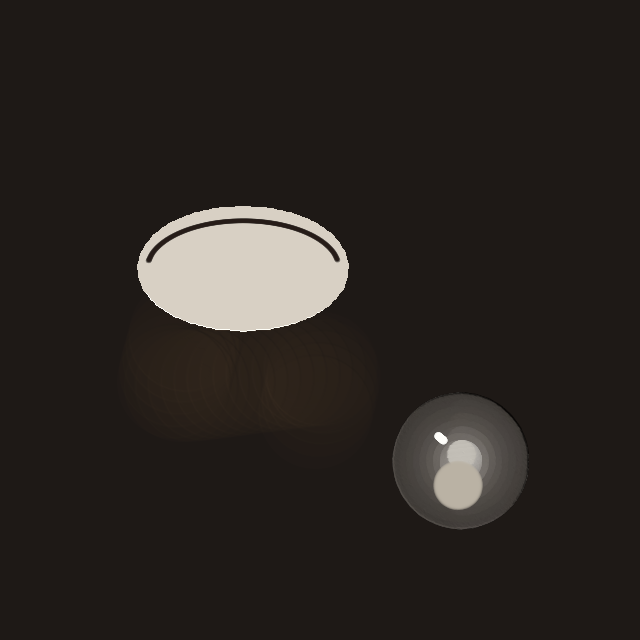
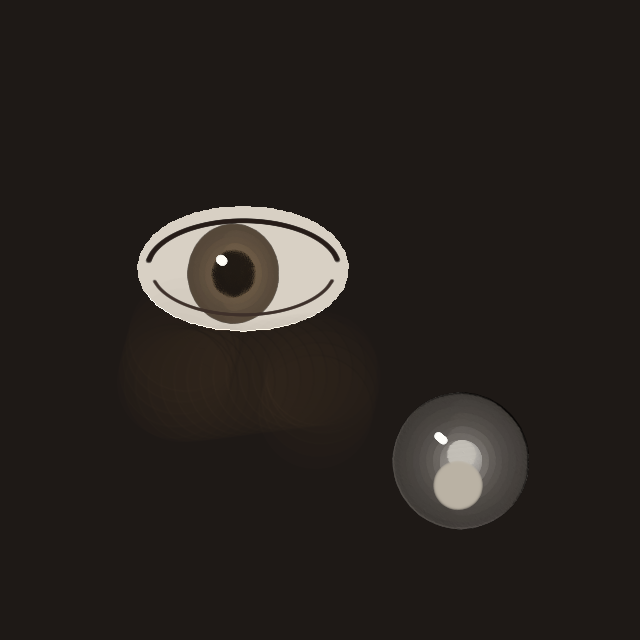
fix(core): give Object a seq (from its creating atom) so later objects draw on top — the iris now renders
**根因** ✓（完整追查见 `docs/design/vermeer-acceptance.md` §28/§29/§30 ✓）：
`objects_in_layer` 的排序是 `sort_by_key(|o| (o.z_index, o.id.clone()))` ✓，
而 `ObjectId = String` ＝ **调用方给的对象名**（`"iris"`／`"sclera"` ✓）
⇒ 两者 `z_index` 都是 0 时，退化成**按名字字典序** ✗ ⇒ **`"iris" < "sclera"`**
⇒ **后加的虹膜反而先画 ✓、先加的眼白随后整片盖掉它** ✗
⇒ 表现为"虹膜怎么都画不出来" ✗，而**缝合 ✓／blit ✓／合成 ✓**全都是对的 ✓
（三段带缓冲里确有 10219 个虹膜像素 ✓，只是随后被覆盖 ✓）。

**修法** ✓：
  1. `Object` 加 **`#[serde(default)] pub seq: crate::ids::Seq`** ✓ —— 来自创建它的原子的 `seq` ✓
     ＝ **真正的加入顺序** ✓；`serde(default)` ⇒ **老文档逐字节不变** ✓；
  2. `fold.rs` 两处生产构造点写 `seq: atom.seq` ✓；
     **wasm 预览对象**给 `u64::MAX` ✓（预览本就该画在最上面 ✓）；
     其余 **15 处**（测试/示例构造点）补 `seq: 0` ✓ —— 全部由**编译器**逐一指出 ✓；
  3. `objects_in_layer` 排序改成 **`(z_index, seq, id)`** ✓（`id` 只做最后兜底 ✓）。

**★ 验证 ★**：
  * 已知红判据 **转绿** ✓（`scripts/tool-bitmap-tiles-render.mjs` ⇒ 退出码 **0** ✓）：
    ```
    ✓ ① 正对照：draw_stroke 改了 29508 个像素
    ✓ ② 带索引的 medium_stroke 改了 **10380** 个像素
    ```
    ⇒ **10380 正好是虹膜位图里不透明像素的个数** ⇒ **整个虹膜都上画布了** ✓；
  * **验收图人眼可见** ✓：`docs/design/evidence/vermeer-study2.png` 现在**有虹膜／瞳孔／高光** ✓
    —— 这正是验收 v2 两处硬伤之一 ✓；
  * **门禁** ✓：`cargo test --workspace` = 0 ✓；`cargo clippy --workspace --all-targets -- -D warnings` = 0 ✓；
    `cargo check --workspace --all-targets` = 0 ✓；
  * 台账里那一条已按仓库惯例**写明"已转绿"及其依据** ✓。

Changed region(s): [[0.2188, 0.3438, 0.5312, 0.5312]]

diff --git a/crates/yanshi-core/src/state.rs b/crates/yanshi-core/src/state.rs
@@ -211,6 +211,15 @@ impl ObjectType {
 pub struct Object {
     /// 对象 id。
     pub id: ObjectId,
+
+    /// **★ 加入顺序（2026-10-15 加 ✓）★**：来自创建它的那个原子的 `seq` ✓
+    /// —— **同层内排序的稳定依据** ✓（原来退化到按 `id`（用户可见的对象名 ✗）
+    /// ⇒ 后加的对象会被排到前面 ⇒ **被先加的盖住** ✗，见 `docs/design/vermeer-acceptance.md` §29 ✓）。
+    ///
+    /// **`#[serde(default)]`** ✓ ⇒ **老文档逐字节不变** ✓（缺省 0 ✓ ⇒ 与原先"按 id"的顺序不同 ✗，
+    /// 但那种文档本来也没有这个信息 ✓；新写的对象一律有真值 ✓）。
+    #[serde(default)]
+    pub seq: crate::ids::Seq,
     /// 所属图层（权威归属，设计文档 4.1）。
     pub layer_id: LayerId,
     /// 对象类型。
@@ -645,7 +654,11 @@ impl DocumentState {
             .values()
             .filter(|o| o.is_alive() && o.layer_id == layer_id)
             .collect();
-        objects.sort_by_key(|o| (o.z_index, o.id.clone()));
+        // **★ 先 `z_index`，再**加入顺序**（`seq` ✓），最后才用 `id` 兜底（2026-10-15 ✓）★**
+        //   **为什么** ✗：原来第二键是 `o.id` ✓，而它是**用户可见的对象名**（`"iris"`／`"sclera"` ✓）
+        //   ⇒ 后加的对象可能被排到**前面** ⇒ **画在下面、被先加的盖住** ✗
+        //   （实测：虹膜后加却先画，随后被眼白整片盖掉 ✓，见 §28/§29 ✓）。
+        objects.sort_by_key(|o| (o.z_index, o.seq, o.id.clone()));
         objects
     }
 
@@ -891,6 +904,7 @@ mod tests {
 
     fn object(id: &str, layer_id: &str, z: i64) -> Object {
         Object {
+            seq: 0,
             id: id.to_owned(),
             layer_id: layer_id.to_owned(),
             object_type: ObjectType::Stroke,

diff --git a/crates/yanshi-core/src/fold.rs b/crates/yanshi-core/src/fold.rs
@@ -898,6 +898,7 @@ pub fn apply(state: &mut DocumentState, atom: &Atom) -> Result<()> {
             let layer_id = required(atom, "layer_id")?.to_owned();
             let object_type = parse_object_type(payload_str(&atom.payload, "type"));
             let object = Object {
+                seq: atom.seq,
                 id: object_id.clone(),
                 layer_id,
                 object_type,
@@ -933,6 +934,7 @@ pub fn apply(state: &mut DocumentState, atom: &Atom) -> Result<()> {
                 let layer_id = required(atom, "layer_id")?.to_owned();
                 let object_type = object_type_for(atom.kind, payload_str(&atom.payload, "type"));
                 let object = Object {
+                    seq: atom.seq,
                     id: object_id.clone(),
                     layer_id,
                     object_type,

diff --git a/crates/yanshi-render/tests/render_properties.rs b/crates/yanshi-render/tests/render_properties.rs
@@ -45,6 +45,7 @@ fn layer(id: &str, z: i64) -> Layer {
 
 fn shape(id: &str, layer_id: &str, z: i64, bbox: [f64; 4], color: serde_json::Value) -> Object {
     Object {
+        seq: 0,
         id: id.to_owned(),
         layer_id: layer_id.to_owned(),
         object_type: ObjectType::Shape,
@@ -71,6 +72,7 @@ fn shape(id: &str, layer_id: &str, z: i64, bbox: [f64; 4], color: serde_json::Va
 
 fn stroke(id: &str, layer_id: &str, z: i64, points: Vec<(f64, f64)>, size: f64) -> Object {
     Object {
+        seq: 0,
         id: id.to_owned(),
         layer_id: layer_id.to_owned(),
         object_type: ObjectType::Stroke,

diff --git a/crates/yanshi-render/tests/perf_budget.rs b/crates/yanshi-render/tests/perf_budget.rs
@@ -47,6 +47,7 @@ fn base_object(
     data: serde_json::Value,
 ) -> Object {
     Object {
+        seq: 0,
         id: id.to_owned(),
         layer_id: layer_id.to_owned(),
         object_type: kind,
@@ -376,6 +377,7 @@ fn perf_overdraw_and_cache_hit_rate() {
 
 fn effects_object(id: &str, object_type: ObjectType, z: i64, data: serde_json::Value) -> Object {
     Object {
+        seq: 0,
         id: id.to_owned(),
         layer_id: "layer_1".to_owned(),
         object_type,

diff --git a/crates/yanshi-render/examples/render_demo.rs b/crates/yanshi-render/examples/render_demo.rs
@@ -241,6 +241,7 @@ fn main() -> Result<(), Box<dyn std::error::Error>> {
     // 5) dirty 传播演示：模拟一次笔触编辑，看看失效了哪些 tile。
     let mut edited = state.clone();
     let new_object = yanshi_core::Object {
+        seq: 0,
         id: "stroke_edit".to_owned(),
         layer_id: "layer_ink".to_owned(),
         object_type: yanshi_core::ObjectType::Stroke,

diff --git a/crates/yanshi-render/tests/bitmap_cache.rs b/crates/yanshi-render/tests/bitmap_cache.rs
@@ -66,6 +66,7 @@ fn background_document(side: u32) -> (DocumentState, MemoryBlobStore) {
     state.objects.insert(
         "obj_bg".to_owned(),
         Object {
+            seq: 0,
             id: "obj_bg".to_owned(),
             layer_id: "layer_bg".to_owned(),
             object_type: ObjectType::RasterPatch,

diff --git a/crates/yanshi-render/tests/below_exceptions.rs b/crates/yanshi-render/tests/below_exceptions.rs
@@ -49,6 +49,7 @@ fn layer(id: &str, z: i64) -> Layer {
 /// 最小对象（**同上 ✓**）。
 fn object(id: &str, layer_id: &str, z: i64, data: serde_json::Value) -> Object {
     Object {
+        seq: 0,
         id: id.to_owned(),
         layer_id: layer_id.to_owned(),
         object_type: ObjectType::Shape,

diff --git a/crates/yanshi-render/tests/below_partial_reuse.rs b/crates/yanshi-render/tests/below_partial_reuse.rs
@@ -47,6 +47,7 @@ fn layer(id: &str, z: i64) -> Layer {
 /// 最小对象（**同上 ✓**）。
 fn object(id: &str, layer_id: &str, z: i64, data: serde_json::Value) -> Object {
     Object {
+        seq: 0,
         id: id.to_owned(),
         layer_id: layer_id.to_owned(),
         object_type: ObjectType::Shape,

diff --git a/crates/yanshi-render/tests/color_jitter.rs b/crates/yanshi-render/tests/color_jitter.rs
@@ -59,6 +59,7 @@ fn render_stroke(jitter: Option<f64>) -> Vec<u8> {
         data["appearance"] = json!({ "dynamics": { "color_jitter": jitter } });
     }
     let object = Object {
+        seq: 0,
         id: "s1".to_owned(),
         layer_id: "L".to_owned(),
         object_type: ObjectType::Stroke,

diff --git a/crates/yanshi-render/tests/tile_parallel.rs b/crates/yanshi-render/tests/tile_parallel.rs
@@ -111,6 +111,7 @@ fn layer(id: &str, z: i64) -> Layer {
 
 fn object(id: &str, layer_id: &str, kind: ObjectType, z: i64, data: serde_json::Value) -> Object {
     Object {
+        seq: 0,
         id: id.to_owned(),
         layer_id: layer_id.to_owned(),
         object_type: kind,

diff --git a/crates/yanshi-render/tests/repro_banding.rs b/crates/yanshi-render/tests/repro_banding.rs
@@ -79,6 +79,7 @@ fn layer(id: &str, z: i64) -> Layer {
 
 fn object(id: &str, layer_id: &str, kind: ObjectType, z: i64, data: serde_json::Value) -> Object {
     Object {
+        seq: 0,
         id: id.to_owned(),
         layer_id: layer_id.to_owned(),
         object_type: kind,

diff --git a/crates/yanshi-render/src/thumb.rs b/crates/yanshi-render/src/thumb.rs
@@ -419,6 +419,7 @@ mod tests {
         state.objects.insert(
             "obj_1".to_owned(),
             Object {
+                seq: 0,
                 id: "obj_1".to_owned(),
                 layer_id: "layer_1".to_owned(),
                 object_type: ObjectType::Shape,
